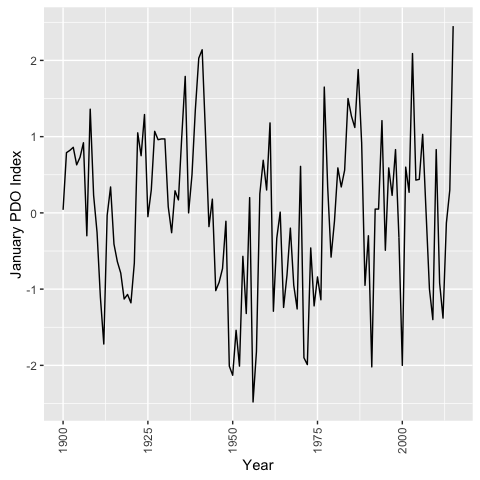
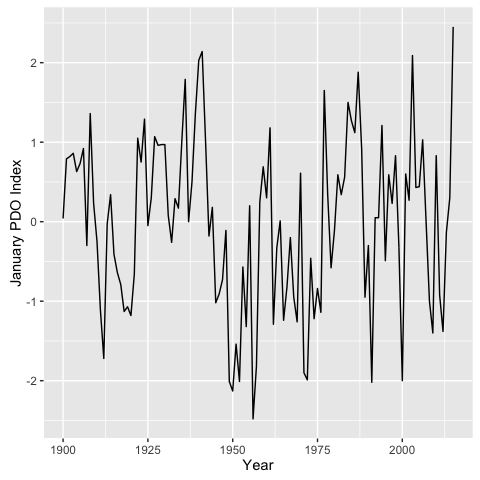
Year labels on README plot flat

diff --git a/README.md b/README.md
@@ -15,8 +15,7 @@ library(ggplot2)
 
 data(pdo)
 ggplot(data = subset(pdo, pdo$Month == 1), aes(x = Year, y = PDO)) + 
-  geom_line() + scale_y_continuous(name = "January PDO Index") +
-  theme(axis.text.x = element_text(angle = 90, vjust = 0.5))
+  geom_line() + ylab("January PDO Index")
 ```
 
 <img src="README_files/figure-markdown_github/unnamed-chunk-1-1.png" alt="Pacific Decadal Oscillation (PDO) Index for January by year."  />
